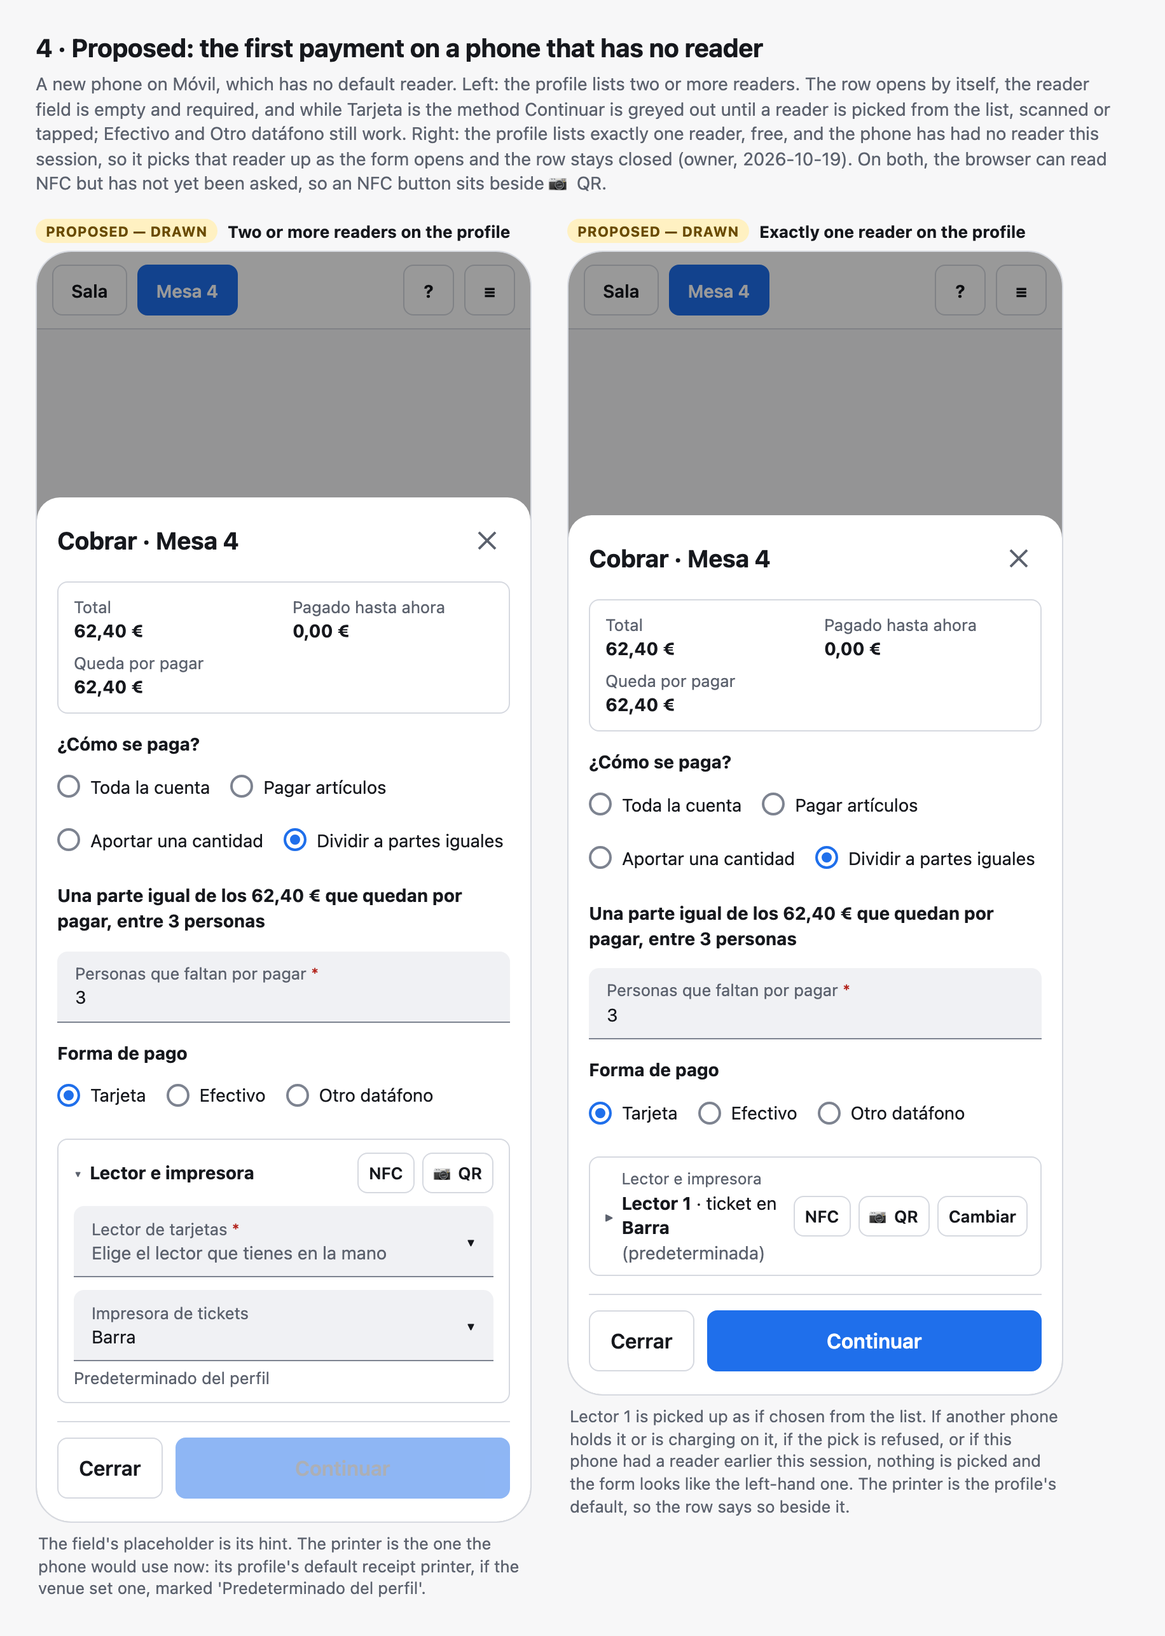
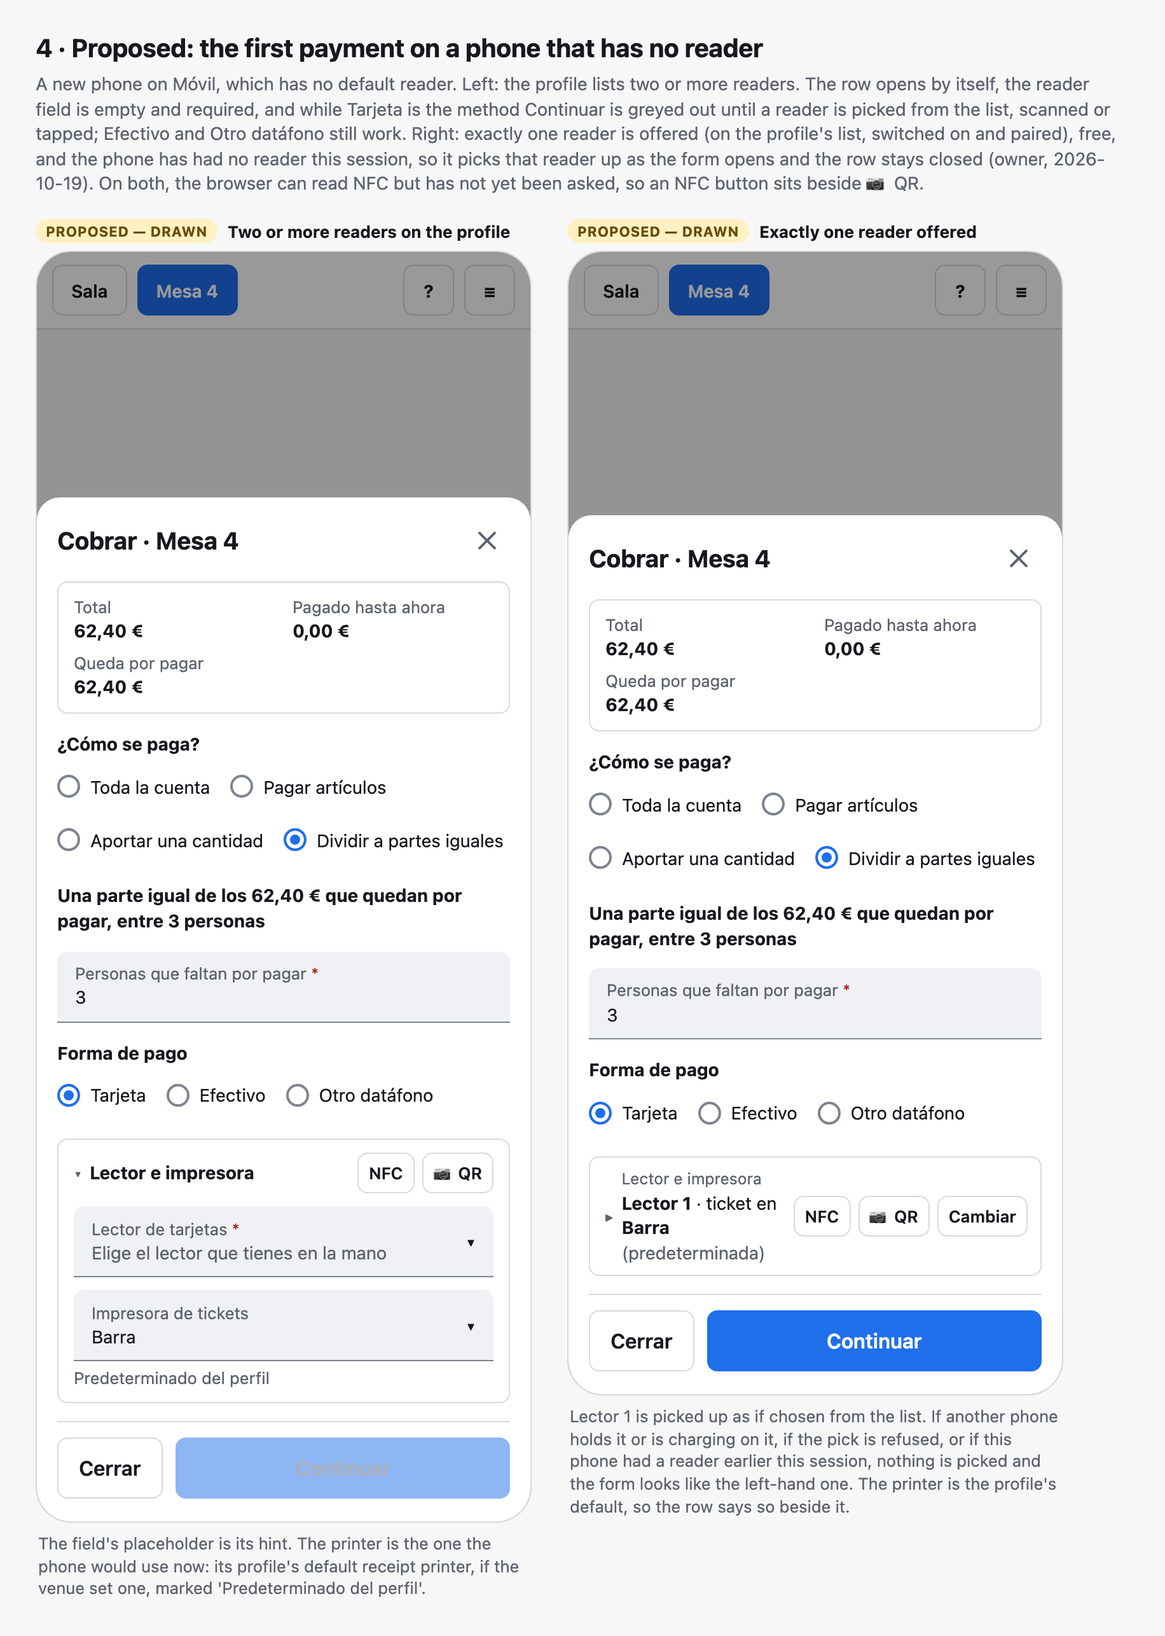
A796 design, revision 4: final claim-check fixes
A narrow third check of the design found sentences that still said
more than the code or the sources support. This commit narrows them.

- The paid screen no longer names a printer. Today's receipt-status
  route returns only a status, so the line reads "Ticket enviado",
  "No se ha podido imprimir" or "No se ha impreso ticket". Naming the
  printer is listed as a possible later addition. The route's id is the
  bill's working-order id, not a sale id.
- A printer whose pick-up roles are empty changes nothing only if it is
  switched on, at the device's location and on the profile's list;
  otherwise the server refuses it.
- The check that the phone holds the reader is cited at both places it
  runs, and the claim check's database run (a phone switching readers
  mid-payment, and another phone then refused) is now described.
- Equipment's list is described exactly: there is no separate "Ninguno"
  entry; Use default reads "Ninguno" when there is no default.
- Unanswered equipment choices: the order the server stores them in is
  no longer claimed to be guaranteed.
- A790 is quoted whole, and its "If none qualifies" line is called an
  earlier, still unapproved proposal.
- A portable default printer the phone does not hold gives it no
  printer. Defaults are now separated from the owner's own words in
  defaults 18 and 19.
- Pictures 4, 5 and 8 are redrawn to match.

Changed region(s): [[0.0311, 0.0622, 0.9334, 0.1555]]

diff --git a/docs/superpowers/specs/2026-10-19-a796-handheld-payments-design.md b/docs/superpowers/specs/2026-10-19-a796-handheld-payments-design.md
@@ -12,8 +12,8 @@ watcher, about 12:10–12:22):
 3. The last reader can no longer be charged: "(a)" — the row opens, reader empty, Continuar greyed
    out, with a reason line where the phone knows one (default 19).
 4. The last receipt printer can no longer print: "(a)" — the row opens with the printer empty and a
-   warning, the payment still goes ahead and the paid screen says no ticket printed; a deleted or
-   printer taken off the profile's list falls back to the profile's default, shown labelled
+   warning, the payment still goes ahead and the paid screen says no ticket printed; a printer
+   deleted or taken off the profile's list falls back to the profile's default, shown labelled
    (default 19).
 5. The form's printer: "(a) ONE setting" — it is the phone's Equipment receipt printer, which an NFC
    tap or a QR scan also changes; no separate receipt memory and no new storage. A790 follows this
@@ -52,8 +52,8 @@ point at are unchanged since `d175118ed` (`git diff --stat d175118ed d63b2e448 -
 `apps/server/src/device-equipment.ts`, `apps/server/src/device-api.ts` and
 `packages/db/src/schema/printers.ts` prints nothing). **(read)** marks
 a conclusion from reading code, not from running it. Every statement about today's code is (read)
-except where §2.1 states a run: one server test, run for this revision, and three browser checks
-the campaign's claim check ran on 2026-10-19. Part of the reading was done by search helpers; the citations this design leans on were
+except where §2.1 or §3 states a run: one server test, run for this revision, and two browser
+checks and one database check that the campaign's claim check ran on 2026-10-19. Part of the reading was done by search helpers; the citations this design leans on were
 re-read line by line before being written here.
 
 **Words.**
@@ -133,9 +133,11 @@ the reader empty; a printer that has gone never holds up a payment.
   and rolls back both devices on a later role refusal" (`apps/server/src/device-equipment.test.ts:885`),
   run 2026-10-19 with `pnpm exec vitest run src/device-equipment.test.ts -t "takes both roles from
   the prior holder"` in `apps/server`: 1 passed. The till's own check above passes in that case,
-  so the refusal comes from the server. A printer whose pick-up set is empty changes nothing
-  (`:369-385`; test "an empty pick-up set leaves choices alone but still refuses a disabled
-  printer", `device-equipment.test.ts:926`).
+  so the refusal comes from the server. A printer whose pick-up set is empty changes nothing, but
+  only if it is switched on, at the device's location and on the profile's receipt or payment-slip
+  list; otherwise it too is refused with `device.binding_invalid` (`:365-381`; test "an empty
+  pick-up set leaves choices alone but still refuses a disabled printer",
+  `device-equipment.test.ts:926`).
 - **How an open payment dialog learns of a tap.** The answer replaces the till's `deviceEquipment`
   (`till-app.ts:8194-8199`) unless an equipment read came back while the choice was out, in which
   case the till reads the equipment again (`#rereadIfStale`); the 15-second read replaces it too
@@ -384,8 +386,10 @@ phone last chose Lector 2 and the Barra receipt printer.
    is listed and asked for the same way, "Impresora 2, lo lleva Móvil 2" then "¿Quitar …?", because
    a portable printer is held like a reader under the same takeover rule (§2.4). Neither list offers
    Equipment's "Usar el predeterminado: {name}" (`apps/till/src/i18n/strings.ts:2286`), and neither
-   offers "Ninguno": Equipment's own drop-down has no such entry either, only Use default and the
-   choices (`equipment-dialog.ts:393-396`). Use default stays in Equipment. For a receipt printer it
+   offers a "Ninguno" entry. Equipment has no separate one either: its list is Use default — which
+   reads "Usar el predeterminado: Ninguno" when the profile has no default
+   (`equipment-dialog.ts:390-392`, `strings.ts:2285-2286`) — the offered choices, and a current
+   choice no longer offered (`:393-404`). Use default stays in Equipment. For a receipt printer it
    means "whatever the profile's default is", which is worked out afresh at every read
    (`packages/layouts/src/device-equipment.ts:279-285`). For a reader it is narrower: the phone
    takes the default only when it joins, comes back, moves profile or picks Use default, and a
@@ -458,11 +462,15 @@ default 20).
   reader the button names. Once the card has been asked for, the sheet's controls are disabled (§4),
   but a tap is still picked up, as on any screen, and the next payment uses the new reader. The
   server checks that the phone holds the reader only when a payment starts (`assertReaderStartable`,
-  `packages/payments/src/store.ts:134-136`, called at `apps/server/src/till-api.ts:346`), and
-  picking another reader lets go of the old one without looking for this phone's own payment on it
+  `packages/payments/src/store.ts:134-136`, called from `resolvePayReader` at
+  `apps/server/src/till-api.ts:346` and from `insertAttempting` at `store.ts:163`), and picking
+  another reader lets go of the old one without looking for this phone's own payment on it
   (`settleDeviceReader`, `packages/payments/src/device-readers.ts:376-382`). While that payment
   runs, no other phone can take the old reader, because the busy check counts it
-  (`readerPaymentInProgress`, `:97-112`). What a running card does if its phone lets go of its
+  (`readerPaymentInProgress`, `:97-112`). The claim check ran this as a database test in
+  `packages/payments` on 2026-10-19: phone A held r1 with a payment started on it and scanned r2,
+  which succeeded, released r1 and left A holding r2; phone B then scanned r1 and was refused as
+  busy. What a running card does if its phone lets go of its
   reader was not checked; the waiting view keeps naming the reader the payment was sent to
   (picture 6).
 - **Asking for NFC permission** (default 21). Where the browser has Web NFC and the permission is
@@ -512,10 +520,11 @@ default 20).
   roles but not all, which the server refuses whole with `device.binding_invalid` (§2.1): today's
   words ("Esa no es una etiqueta de equipo de Waitron", "Ese equipo no está disponible para este
   dispositivo…", or the refusal's own message) show in the sheet's line, and nothing changes. A
-  printer whose pick-up set is empty also changes nothing; the sheet's line then shows today's
-  `equipment.no_printer_role` message, unless that printer already was the phone's receipt or
-  payment-slip printer, in which case today's code says "Has recogido {item}"
-  (`till-app.ts:8200-8216`).
+  printer whose pick-up set is empty changes nothing where the server accepts it (switched on, at
+  the device's location, on the profile's receipt or payment-slip list; §2.1) and is refused
+  otherwise. When accepted, the sheet's line shows today's `equipment.no_printer_role` message,
+  unless the answer shows that printer as the phone's chosen or by-default receipt or payment-slip
+  printer, in which case today's code says "Has recogido {item}" (`till-app.ts:8200-8216`).
 - **A printer picked up for payment slips only** (a manager changed its pick-up roles): its sticker
   sets the payment-slip printer, not the receipt printer, so the sheet's printer does not change. The
   sheet's line says "Has recogido {item} solo para justificantes de pago." (a new string) instead of
@@ -554,8 +563,9 @@ The server forgets the old reader when another phone takes it or it is deleted o
 list, and the old printer when it is deleted, taken off the list or marked portable (default 19);
 it keeps both when they are only switched off. The "taken" line in picture 5 comes from the comparison the till already
 makes between two equipment reads in memory (`takenFrom`, §2.1), so after a reload it is not shown
-and the form looks like a first use. The one new thing the phone keeps is in memory only, for as
-long as the page is open: whether it has had a reader this session (default 18).
+and the form looks like a first use. The one new thing the phone keeps is a single in-memory flag,
+held only while the page is open and never stored: whether it has had a reader this session
+(default 18).
 
 **Routes, all existing.** Changing either drop-down: `PUT /api/device/equipment` with role
 `card_terminal` or `receipt` (§2.1); the exactly-one-reader pick sends the same, as a list pick. A
@@ -566,10 +576,12 @@ today's NFC pick-up sends (§2.1). Then `GET /api/device/equipment` to redraw. O
 bills: `POST /api/pay` for the reader, which accepts a `placed` order (`till-sale.ts:1127`), and
 `collectOrder` for cash and typed cards. Cerrar mesa: `POST /api/parties/:id/finish`
 (`till-api.ts:2719-2738`, which needs the `take-orders` action). The paid screen's ticket line:
-`GET /api/sales/:id/receipt` (`till-api.ts:2205-2224`), which today's ticket view already reads
-(`#readReceiptPrint`, `till-app.ts:7463-7472`) and which says whether the original receipt was
-queued and how it went, but not on which printer (`OriginalReceiptPrint`,
-`apps/till/src/api/client.ts:2166-2172`). **No payment route gains a printer field**: the receipt prints when the invoice is issued, under the device that took the payment
+`GET /api/sales/:id/receipt`, whose `:id` is the bill's working-order id, not a sale id
+(`till-api.ts:2205-2224`, which looks the sale up by `workingOrderId`); today's ticket view already
+reads it (`#readReceiptPrint`, `till-app.ts:7463-7472`). It answers a status — `not_queued`,
+`queued`, `printing`, `failed` or `done` — with `jobId`, `canRetry` and sometimes `failureCode`,
+`handover` or `printerWithdrawn`, but no printer (`till-api.ts:2274-2287`; `OriginalReceiptPrint`,
+`apps/server/src/receipt-print.ts:417-426`). **No payment route gains a printer field**: the receipt prints when the invoice is issued, under the device that took the payment
 (`bill-payments.ts:1259-1260`) and possibly minutes later, when the bill payment loop settles a
 pending card through the same code (`completeBillPayment`, `bill-payments-loop.ts:143-149`). That
 path passes no printer, so `enqueueSaleReceipt` looks up the device's receipt printer at that moment
@@ -733,12 +745,15 @@ are given.
     prints on Terraza. Changing the printer in the form changes that phone's receipt printer for what
     follows too — reprints included — as choosing it in Equipment does; no payment route gains a
     printer field (§5). New: the paid screen's ticket line (picture 8), by default and with no
-    server change. Whether a ticket was sent comes from today's `GET /api/sales/:id/receipt`, which
-    names no printer (§5). The printer named is the receipt printer the phone had when it sent the
-    completing payment: "Ticket enviado a Barra". Where the phone's receipt printer has changed
-    since — a card that settled late prints on whatever the phone had by then — the line names no
-    printer: "Ticket enviado". Where nothing was queued: "No se ha impreso ticket", and that a
-    device whose profile may print receipts can reprint it. No digital receipt. **Settled (owner,
+    server change. It comes from today's `GET /api/sales/:id/receipt` (§5) and names no printer,
+    because the route returns none and the server picks the printer when the invoice is issued, so
+    the phone's own memory could name a printer that did not print. `queued`, `printing` or `done`:
+    "Ticket enviado". `failed`: "No se ha podido imprimir", with today's retry where `canRetry`.
+    `not_queued`: "No se ha impreso ticket", and that a device whose profile may print receipts can
+    reprint it. Naming the printer would need the route to return the print job's printer, which
+    the read behind it already joins (`readOriginalReceiptPrints`,
+    `apps/server/src/receipt-print.ts:437-453`); that is a possible later addition, not part of this
+    build. No digital receipt. **Settled (owner,
     2026-10-19): "ONE setting"** — the form's printer is the phone's Equipment receipt printer,
     which an NFC tap or a QR scan also changes; no separate receipt memory and no new storage.
     A790's design already follows this on `main` at `d63b2e448`: "The separate receipt memory
@@ -765,13 +780,17 @@ are given.
     takes reader payments, never as its default; a manager can take it off.
 17. **Settled: Tap-to-Pay waits for the one-time native-app decision** (§6; native-app capabilities,
     N1/N2): "should be made **once, against the whole set** … not piecemeal".
-18. **Settled (owner, 2026-10-19, answer "(b)"): a phone with no reader.** The row opens by
-    itself, the reader field is empty with the placeholder "Elige el lector que tienes en la mano"
-    (a new string; a field's hint is its placeholder), and, while Tarjeta is the method, the field
-    is marked required and Continuar is greyed out until a reader is picked from the list, scanned or
-    tapped (picture 4, left). Cash and Otro datáfono work meanwhile. The printer field shows the
-    printer the phone would use now — its profile's default receipt printer, where the venue set
-    one — marked "Predeterminado del perfil" (`strings.ts:2287`). The exception the owner chose:
+18. **Settled (owner, 2026-10-19, answer "(b)"): a phone with no reader.** The owner's answer: the
+    row opens by itself, the reader empty and Continuar greyed out until a reader is picked or
+    scanned; cash still works. By default (owner may overrule): the reader field's placeholder is
+    "Elige el lector que tienes en la mano" (a new string; a field's hint is its placeholder); the
+    field is marked required, and Continuar greyed out for it, only while Tarjeta is the method, so
+    Otro datáfono works too; a tapped sticker counts as a pick (picture 4, left). The printer field
+    shows the printer the phone would use now — its profile's default receipt printer, where the
+    venue set one — marked "Predeterminado del perfil" (`strings.ts:2287`). A portable default
+    printer this phone does not hold gives it no printer at all: a portable printer serves only the
+    device holding it, chosen or default (`packages/layouts/src/device-equipment.ts:274-276`, used
+    at `:285`). The exception the owner chose:
     when the profile offers exactly one reader, it is picked automatically (picture 4, right). By
     default, for the owner to overrule, the design reads that as all of these:
     - the phone has had no reader as far as it can know. Within a session it does know: the till
@@ -799,8 +818,14 @@ are given.
     a device on Use default", `packages/payments/src/device-readers.test.ts:378`). When the phone has
     it, the form shows it marked "Predeterminado del perfil".
 19. **Settled (owner, 2026-10-19, answers "(a)" and "(a)"): a reader or printer that has gone.**
-    *The reader* (picture 5, left): the row opens by itself with the reader field empty and, while
-    Tarjeta is the method, Continuar greyed out until a reader is picked. One line says why where the
+    The owner's answers: for the reader, the row opens, reader empty, Continuar greyed out, with a
+    reason line where the phone knows one; for the printer, the row opens with the printer empty
+    and a warning, the payment still goes ahead and with no change no ticket prints and the paid
+    screen says so, and a printer deleted or taken off the profile's list falls back to the
+    profile's default, shown labelled. The rest of this item is how the design carries that out, from today's code, and
+    where marked, by default.
+    *The reader* (picture 5, left): the row opens by itself with the reader field empty and, by
+    default only while Tarjeta is the method, Continuar greyed out until a reader is picked. One line says why where the
     phone knows: "Móvil 2 (Marc) se ha llevado Lector 2" when the phone saw the takeover this session;
     "Lector 2 está desactivado" (`strings.ts:2291`) for a switched-off or unpaired reader, whose
     choice the server keeps (§2.1, §4). For a reader deleted or taken off the profile's list during
@@ -819,15 +844,20 @@ are given.
     (`packages/layouts/src/device-printers.ts:151`, `packages/layouts/src/device-equipment.ts:588-626`),
     a profile move through `clearUnlistedPrinterChoices` (`apps/server/src/device-equipment.ts:77`),
     marking portable through `setPrinterPortable` (`packages/layouts/src/device-equipment.ts:633-651`)
-    — and the phone falls back to the profile's default receipt printer. The row stays closed and
-    shows "ticket en Terraza (predeterminada)" (picture 5, right). By default (owner may overrule),
+    — and the phone falls back to the profile's default receipt printer. Marking a printer portable
+    is not in the owner's answer; it is today's code clearing choices the same way, so the form
+    treats it the same. The row stays closed and shows "ticket en Terraza (predeterminada)"
+    (picture 5, right). By default (owner may overrule),
     where nothing is left to print on, two cases differ. If the profile lists no receipt printer at
     all, the venue has chosen no tickets on this kind of device: the row stays closed and reads
     "sin ticket". If the profile lists receipt printers but the phone has no choice and the profile
     no default, the row opens with the printer field empty and the warning "Sin impresora de
     tickets: si no eliges una, no se imprimirá el ticket" (a new string); the payment is not held
-    up. This matches A790's rule for its own receipt forms: "If none qualifies, leave the inline
-    field empty and ask for a choice there" (A790 design, lines 234-235).
+    up. This matches A790's earlier, still unapproved proposal for its own receipt forms: "If none
+    qualifies, leave the inline field empty and ask for a choice there" (A790 design, lines
+    234-235, under "Historical text retained verbatim", line 122, in a section headed as a proposed
+    builder call with persistence not agreed, line 212; A790's addendum says "A790's first-use
+    behavior and further fallback details remain unapproved", lines 64-65).
 20. **Settled (owner, 2026-10-19): a QR button on the folded row, and NFC working while the form is
     open** — "we're missing the button to scan a qr code to associate a card reader or printer, and
     we should have a function running in the background to update the appropriate device when an
@@ -852,19 +882,24 @@ are given.
     as a touch gesture or mouse click" (Provenance), as Equipment's Permitir NFC already does. It is
     not shown on a browser without Web NFC, once granted, or once refused.
 22. **A drop-down or automatic pick that is being saved, or is refused** (by default, owner may
-    overrule; A790's design leaves these to A796: "A796 owns those interactions … Save timing,
-    pending/refused saves, rollback and concurrent Equipment changes", A790 design lines 56-58).
+    overrule). A790's design leaves these to A796: "A796 owns those interactions, the reader labels
+    and NFC permission; its background NFC requirement does not authorize assuming permission.
+    Save timing, pending/refused saves, rollback and concurrent Equipment changes need a builder
+    proposal and agreement." (A790 design lines 56-59.)
     While a pick is being sent, the field shows the new choice as sending, and Continuar (and Cobrar
     on the confirmation step) is greyed out until it is answered, so a charge never goes out against
     a reader the server has not given the phone. On a refusal the field goes back to what it showed
     before, and the refusal's message appears under that field, as the form rules ask of a refusal
     that names a shown field. A pick that gets no answer may still have been stored, so the till
     reads the equipment again, as `#switchEquipment` does today for an error with no status
-    (`till-app.ts:8228-8239`, re-read at `:8255`), and the field shows what that read says, with the refusal line
-    "No se ha podido guardar" (a new string) under it. An automatic pick (default 18) that is
-    refused or gets no answer as the form opens leaves the form as answer 2's empty reader field, with
-    the message under it. Picks, scans and taps keep going through today's one-at-a-time queue
-    (§2.1), so a later one is answered after an earlier one.
+    (`till-app.ts:8228-8239`, re-read at `:8255`), and the field shows what that read says, with the
+    line "No se ha podido guardar" (a new string) under it. Today that re-read happens only once no
+    other choice is waiting, and is tried once (`#rereadIfStale`, `:7936-7940`). An automatic pick
+    (default 18) that is refused or gets no answer as the form opens leaves the form as answer 2's
+    empty reader field, with the message under it. Picks, scans and taps keep going through today's
+    one-at-a-time queue (§2.1), but the order the server stores them in is not guaranteed once one
+    goes unanswered: a cut-off request "may still reach the server after later ones"
+    (`till-app.ts:2559-2563`).
 
 ## 9. Questions for the owner
 
